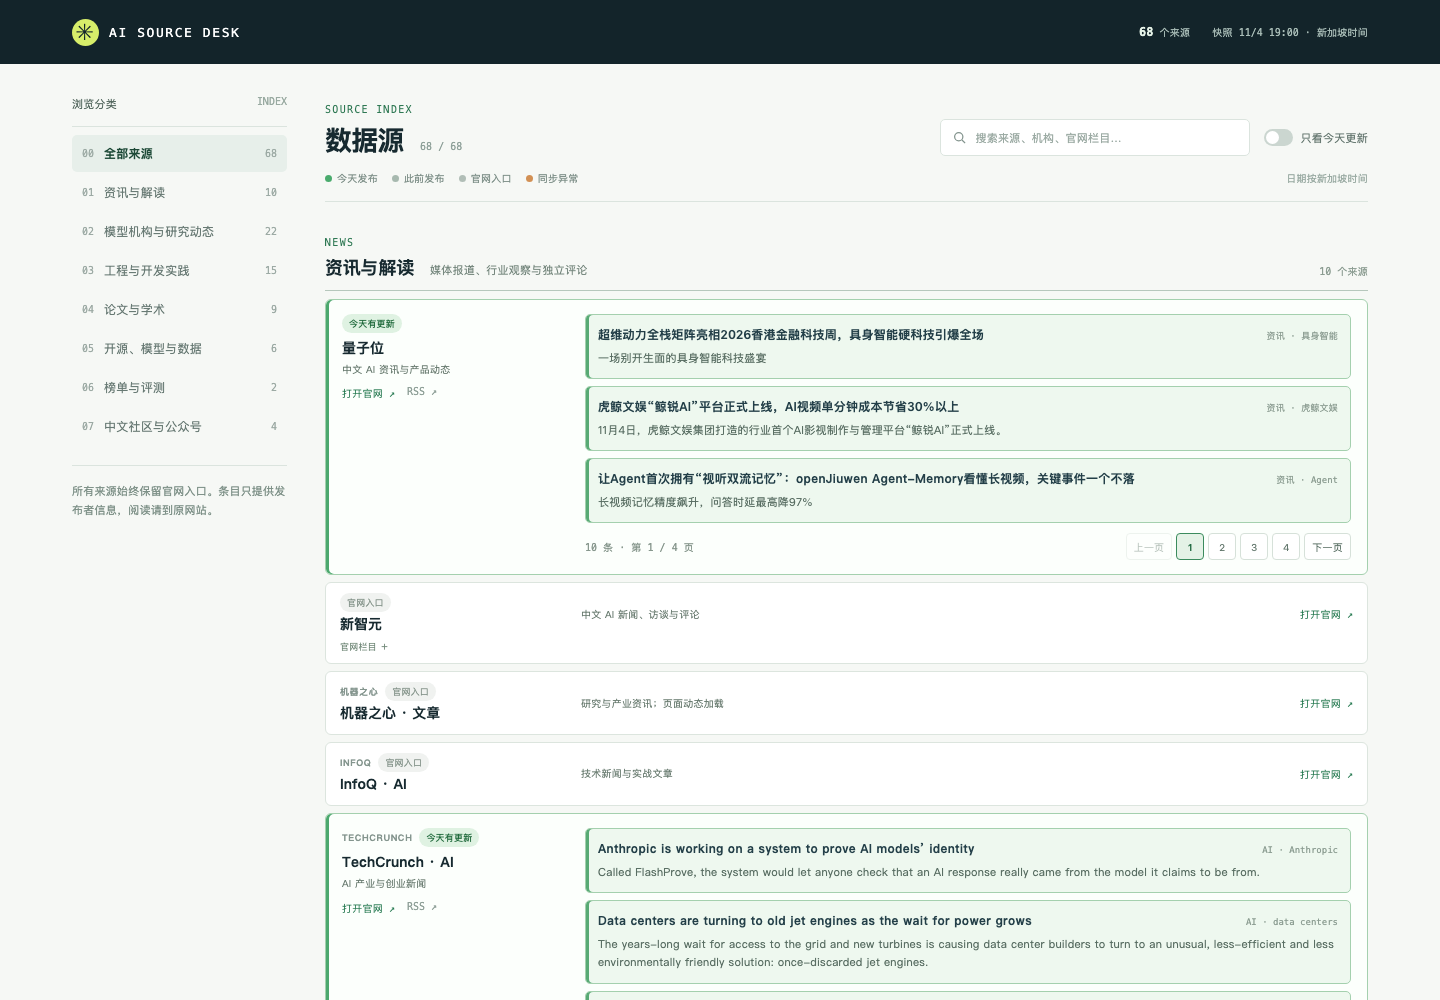
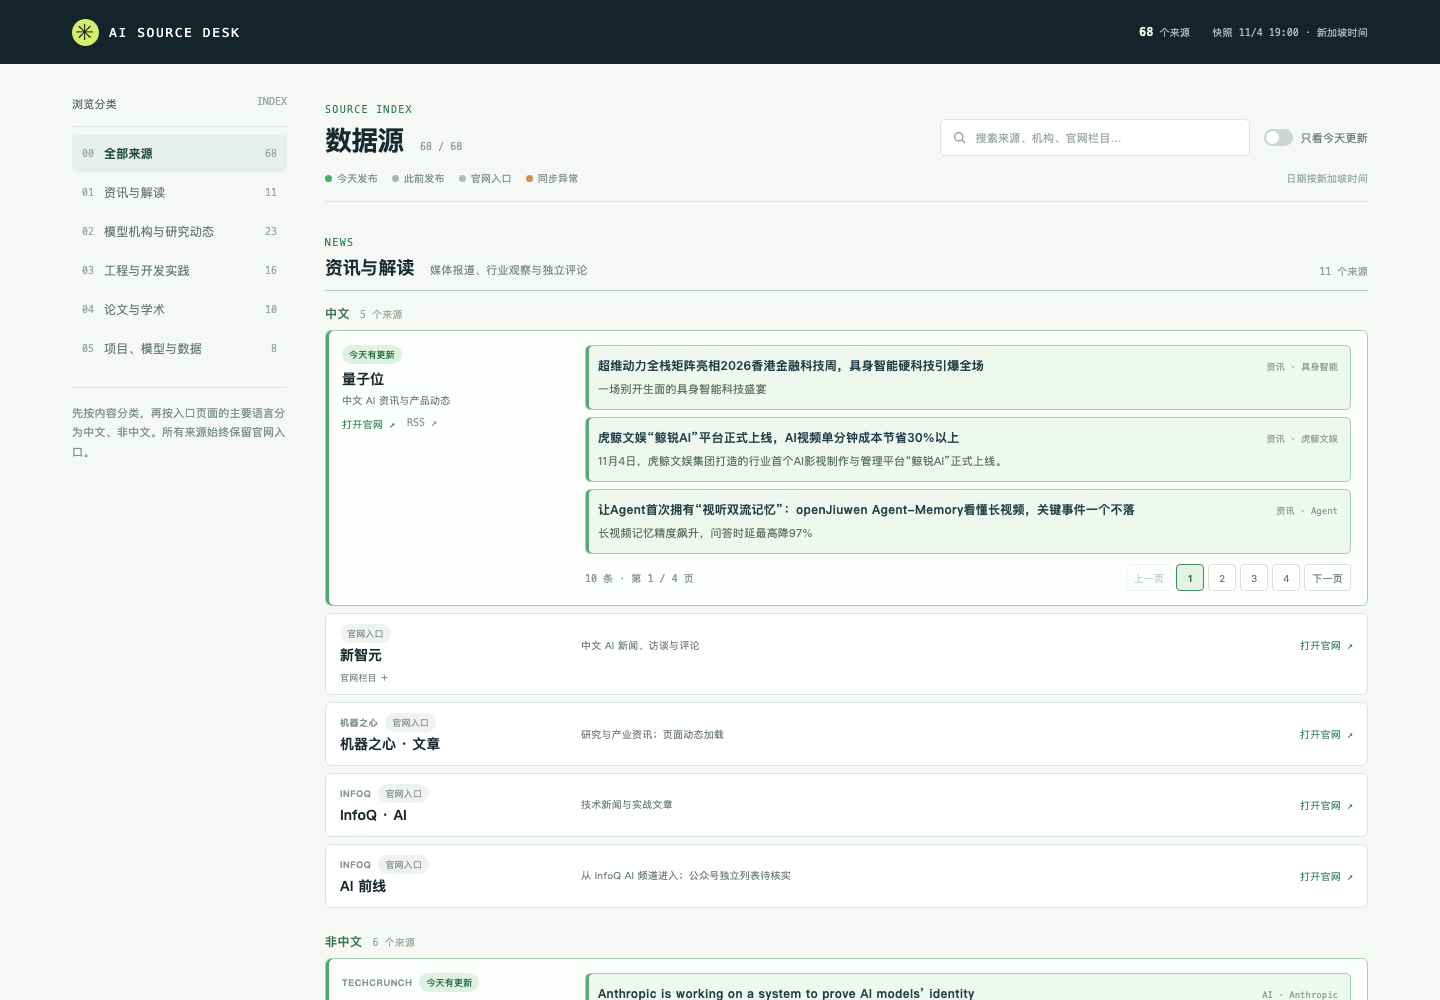
Group AI sources by content and reading language

diff --git a/site/assets/style.css b/site/assets/style.css
@@ -6,6 +6,7 @@
 .main-panel{min-width:0}.toolbar{display:flex;align-items:end;justify-content:space-between;gap:22px;margin-bottom:15px}.section-kicker{font:500 10px 'DM Mono',monospace;color:var(--green);letter-spacing:.13em}.toolbar h1{font-size:27px;line-height:1.15;letter-spacing:-.04em;margin:7px 0 0}.toolbar h1 span{font:10px 'DM Mono',monospace;color:#8ea099;letter-spacing:0;margin-left:8px}.controls{display:flex;align-items:center;gap:14px}.search-wrap{position:relative}.search-wrap svg{width:15px;height:15px;position:absolute;left:12px;top:11px;fill:none;stroke:#82938d;stroke-width:2}.search-wrap input{width:min(28vw,310px);min-width:210px;height:37px;padding:0 10px 0 35px;border:1px solid var(--line);border-radius:5px;background:#fff;color:var(--ink);font-size:11px}.search-wrap input::placeholder{color:#9baaa3}.today-switch{display:flex;align-items:center;gap:8px;white-space:nowrap;color:#657770;font-size:11px;cursor:pointer}.today-switch input{position:absolute;opacity:0}.switch-track{position:relative;width:29px;height:17px;border-radius:99px;background:#cbd6d0;transition:background .2s}.switch-track:before{content:'';position:absolute;left:2px;top:2px;width:13px;height:13px;border-radius:50%;background:#fff;transition:transform .2s}.today-switch input:checked+.switch-track{background:var(--green)}.today-switch input:checked+.switch-track:before{transform:translateX(12px)}.today-switch input:focus-visible+.switch-track{outline:3px solid #a5c936;outline-offset:2px}
 .legend{display:flex;flex-wrap:wrap;gap:14px;align-items:center;padding:0 0 16px;border-bottom:1px solid var(--line);color:#81928b;font:10px 'DM Mono',monospace}.legend span{display:flex;align-items:center;gap:5px}.legend .timezone{margin-left:auto;color:#9aaba3}.dot{display:inline-block;width:7px;height:7px;border-radius:50%;background:#b1beb7}.dot.fresh{background:#4aab6d}.dot.recent{background:#a7b9af}.dot.error{background:#d29054}.sync-notice{background:#fcf3e7;border:1px solid #f0d9be;border-radius:5px;padding:10px 12px;margin-top:14px;color:#8e602f;font-size:11px}.sync-notice[hidden]{display:none}
 .group-section{margin:27px 0 40px;scroll-margin-top:18px}.group-heading{display:flex;align-items:end;gap:16px;padding-bottom:10px;border-bottom:1px solid #b6c7bc;margin-bottom:8px}.group-heading h2{font-size:18px;letter-spacing:-.03em;margin:4px 0 0}.group-heading p{flex:1;margin:0 0 2px;color:#75877d;font-size:11px}.group-count{white-space:nowrap;margin-bottom:2px;color:#8c9d92;font:10px 'DM Mono',monospace}.source-list{display:flex;flex-direction:column;gap:7px}
+.language-section{margin-top:14px}.language-section+.language-section{margin-top:25px}.language-heading{display:flex;align-items:baseline;gap:10px;margin:0 0 8px}.language-heading h3{margin:0;color:#3f7556;font-size:12px;letter-spacing:.02em}.language-heading span{color:#9aaba1;font:10px 'DM Mono',monospace}
 .source-card{display:grid;grid-template-columns:minmax(180px,225px) minmax(0,1fr);gap:18px;background:var(--white);border:1px solid #dce5de;border-radius:6px;padding:14px 16px;scroll-margin-top:18px}.source-card.is-fresh{border-color:var(--fresh-line);box-shadow:inset 3px 0 0 #4ca86e;background:#fcfffc}.source-identity{min-width:0}.card-top{display:flex;align-items:center;gap:7px;min-height:18px}.org{font-size:9px;color:#84958e;font-weight:700;letter-spacing:.04em;text-transform:uppercase;overflow:hidden;text-overflow:ellipsis;white-space:nowrap}.status{display:inline-block;border-radius:99px;padding:3px 7px;background:#eff2ef;color:#73847a;font:9px 'DM Mono',monospace;white-space:nowrap}.status.fresh{background:#dff2e2;color:#216b3d;font-weight:500}.status.error,.status.stale{background:#fbeddc;color:#9b622b}.status.manual{background:#f0f2f0;color:#87968d}.source-name{font-size:14px;line-height:1.35;letter-spacing:-.02em;margin:6px 0 4px}.source-name a{text-decoration:none}.source-name a:hover{text-decoration:underline}.source-note{margin:0;color:#6b7d72;font-size:10px;line-height:1.55}.source-links{display:flex;gap:12px;margin-top:9px;font:10px 'DM Mono',monospace}.source-links a{text-decoration:none}.official-link{color:#257950}.feed-link{color:#8fa098}.source-links a:hover{text-decoration:underline}.source-sections{margin-top:8px}.source-sections summary{list-style:none;cursor:pointer;color:#748b7b;font-size:9px}.source-sections summary::-webkit-details-marker{display:none}.source-sections summary:after{content:' ＋'}.source-sections[open] summary:after{content:' −'}.native-tags{display:flex;flex-wrap:wrap;gap:4px;margin-top:6px}.native-tag{padding:2px 5px;border-radius:3px;background:#edf3ee;color:#577663;font-size:9px}
 .source-content{min-width:0;align-self:start}.item-list{list-style:none;padding:0;margin:0;display:flex;flex-direction:column;gap:7px}.item-row{display:flex;gap:10px;min-width:0;padding:11px 12px;border:1px solid #e6ebe6;border-radius:5px;background:#fff}.item-row.published-today{background:var(--fresh);border-color:var(--fresh-line);box-shadow:inset 3px 0 0 #58aa74}.item-body{min-width:0;flex:1}.item-heading{display:flex;align-items:baseline;justify-content:space-between;gap:12px}.item-link{display:block;min-width:0;color:#233f48;text-decoration:none;font-size:12px;line-height:1.5;font-weight:600;overflow-wrap:anywhere}.item-link:hover{color:#22734d;text-decoration:underline}.item-detail{flex:none;color:#8e9f94;font:9px 'DM Mono',monospace;white-space:nowrap}.item-description{display:block;margin:5px 0 0;color:#596e63;font-size:11px;line-height:1.65;white-space:normal;overflow:visible;overflow-wrap:anywhere}.rank-number{flex:none;padding-top:1px;color:#4b9165;font:11px 'DM Mono',monospace}.no-items{margin:8px 0;color:#91a097;font-size:11px}.error-note{margin:8px 0 0;color:#a56d36;font-size:10px}
 .source-card.is-directory{display:block;padding:10px 14px}.is-directory .source-identity{display:grid;grid-template-columns:minmax(150px,225px) minmax(0,1fr) auto;gap:2px 16px;align-items:center}.is-directory .card-top{grid-column:1;grid-row:1}.is-directory .source-name{grid-column:1;grid-row:2;margin:1px 0}.is-directory .source-note{grid-column:2;grid-row:1/3}.is-directory .source-links{grid-column:3;grid-row:1/3;margin:0}.is-directory .source-sections{grid-column:1/3;grid-row:3;margin:3px 0 0}

diff --git a/site/assets/app.js b/site/assets/app.js
@@ -63,7 +63,7 @@ function sourceCard(source) {
   top.append(el('span', `status ${result.status === 'error' ? 'error' : stale ? 'stale' : fresh ? 'fresh' : result.status === 'ok' ? 'recent' : 'manual'}`,
     result.status === 'error' ? '同步异常' : fresh ? '今天有更新' : result.status === 'ok' ? (ranking ? (recentlySynced(result) ? '当前榜单' : '旧榜单快照') : '此前有发布') : source.mode === 'link' ? '官网入口' : '等待同步'));
   identity.append(top);
-  const title = el('h3', 'source-name'); title.append(link(source.name, source.url)); identity.append(title);
+  const title = el('h4', 'source-name'); title.append(link(source.name, source.url)); identity.append(title);
   identity.append(el('p', 'source-note', source.note));
   const links = el('div', 'source-links');
   links.append(link('打开官网 ↗', source.url, 'official-link'));
@@ -125,6 +125,8 @@ function matches(source) {
   if (state.activeGroup !== 'all' && source.group !== state.activeGroup) return false;
   if (state.todayOnly && !updatedToday(source)) return false;
   if (!state.query) return true;
+  if (state.query === '中文') return source.language === 'zh';
+  if (state.query === '非中文') return source.language === 'non_zh';
   return [source.name, source.org, source.note, ...(source.sections || [])].join(' ').toLocaleLowerCase().includes(state.query);
 }
 
@@ -164,8 +166,18 @@ function render() {
     const label = el('div'); label.append(el('span', 'section-kicker', group.id.toUpperCase()), el('h2', '', group.name));
     heading.append(label, el('p', '', group.description), el('span', 'group-count', `${entries.length} 个来源`));
     section.append(heading);
-    const list = el('div', 'source-list'); entries.forEach((source) => list.append(sourceCard(source)));
-    section.append(list); container.append(section);
+    for (const language of [{ id: 'zh', name: '中文' }, { id: 'non_zh', name: '非中文' }]) {
+      const languageEntries = entries.filter((source) => source.language === language.id);
+      if (!languageEntries.length) continue;
+      const subsection = el('div', 'language-section');
+      const subheading = el('div', 'language-heading');
+      subheading.append(el('h3', '', language.name), el('span', '', `${languageEntries.length} 个来源`));
+      subsection.append(subheading);
+      const list = el('div', 'source-list');
+      languageEntries.forEach((source) => list.append(sourceCard(source)));
+      subsection.append(list); section.append(subsection);
+    }
+    container.append(section);
   }
   if (!visible.length) container.append(el('div', 'empty', '没有匹配的来源。清除搜索或关闭“只看今天更新”即可浏览全部入口。'));
 }

diff --git a/site/index.html b/site/index.html
@@ -22,7 +22,7 @@
     <aside class="sidebar" aria-label="分类导航">
       <div class="sidebar-title">浏览分类 <span>INDEX</span></div>
       <nav id="groupNav"></nav>
-      <p class="sidebar-note">所有来源始终保留官网入口。条目只提供发布者信息，阅读请到原网站。</p>
+      <p class="sidebar-note">先按内容分类，再按入口页面的主要语言分为中文、非中文。所有来源始终保留官网入口。</p>
     </aside>
     <div class="main-panel">
       <div class="toolbar">

diff --git a/scripts/build.py b/scripts/build.py
@@ -20,6 +20,7 @@ def main():
         assert source["id"] not in ids, source["id"]
         ids.add(source["id"])
         assert source["group"] in groups, source["id"]
+        assert source.get("language") in {"zh", "non_zh"}, source["id"]
         assert source["mode"] in {"link", "feed", "publisher_page", "papers", "papers_trending", "hf_trending", "github_trending", "aa_leaderboard"}, source["id"]
         assert source["cadence"] in {"daily", "weekly", "monthly"}, source["id"]
         for field in ("url", "feed"):

diff --git a/README.md b/README.md
@@ -4,7 +4,7 @@
 
 ![看板预览](docs/images/overview.png)
 
-收录范围按实际来源分为：资讯与解读、模型机构与研究动态、工程与开发实践、论文与学术、开源与社区、榜单与评测、中文社区与公众号。分类只是浏览目录；`data/sources.json` 同时保留发布者自己的栏目。OpenAI 的 News、Research Index、Developer Blog、Cookbook、Release Notes 和 API Changelog 是六个独立入口。
+收录范围按阅读目的分为五类：资讯与解读、模型机构与研究动态、工程与开发实践、论文与学术、项目、模型与数据。每类再按当前入口页面的主要阅读语言分为“中文 / 非中文”，与机构所在地无关；公众号入口也放在对应内容分类中。榜单放在对应的项目与资源目录。`data/sources.json` 同时保留发布者自己的栏目。OpenAI 的 News、Research Index、Developer Blog、Cookbook、Release Notes 和 API Changelog 是六个独立入口。
 
 ## 设计原则
 
@@ -13,7 +13,7 @@
 - **真实线索**：导语与摘要来自发布者公开列表，不做 AI 摘要或主观推荐，也不复制文章全文。部分 RSS 提供的是长正文，采集器会限制预览长度并用省略号标明。
 - **明确状态**：`官网入口` 表示仅导航；`等待同步` 表示尚未首次抓取；`同步异常` 表示本轮失败，历史抓取结果仍可见；`今天有更新` 根据文章日期和新加坡时间判断，今天发布的文章另有浅绿色底色。
 - **榜单快照**：GitHub Trending 展示当前仓库顺序，绝不把上榜理解为今天创建。其他榜单如无法稳定获取结构化排名，先保留官网入口。
-- **来源分类独立**：七个看板分类用于导航，官网栏目作为来源标签保留，不强行映射。
+- **来源分类独立**：五个内容分类用于导航；每类下按入口语言分组。官网栏目作为来源标签保留，不强行映射。
 
 ## 自动更新
 

diff --git a/AGENTS.md b/AGENTS.md
@@ -7,6 +7,7 @@ This repository is an index of original AI information sources. The source regis
 - Show all registered source channels by default, even when a channel is quiet or its fetch fails.
 - Link to the publisher's official index and original item. Store only title, date, publisher categories, link, and the publisher-provided teaser or paper abstract when available. Rankings may store current order and a public description. Never generate a teaser or copy full articles.
 - Preserve a publisher's native sections and item labels. The site's broad groups only organize the directory.
+- Group sources by the content readers seek, then label each source `zh` or `non_zh` based on the linked page's primary reading language. Language is a second-level display grouping; distribution channel (including WeChat) is not a standalone content group. Place rankings with the projects or resources they rank.
 - Rankings are current snapshots. Never call a trending repository “published today.”
 - Distinguish `directory`, `pending`, `ok`, and `error`. On errors, retain the last successful items and never claim they were freshly checked.
 - A missing feed is not a reason to drop a valuable source. Keep it as a link until a stable public extraction path is verified.
